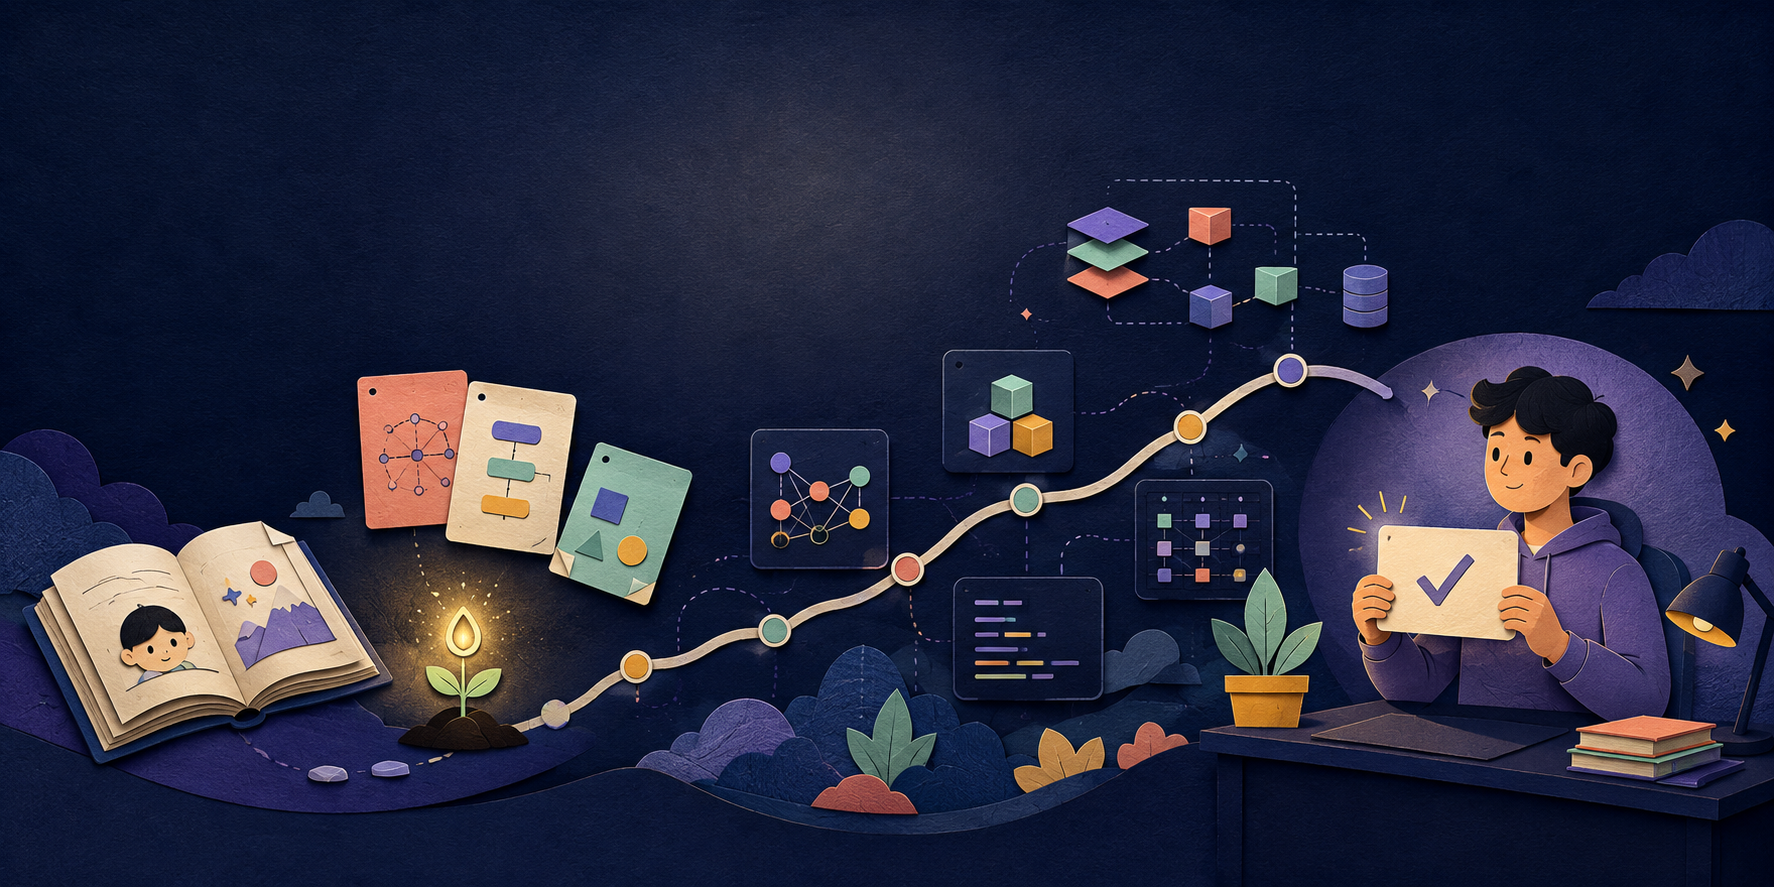
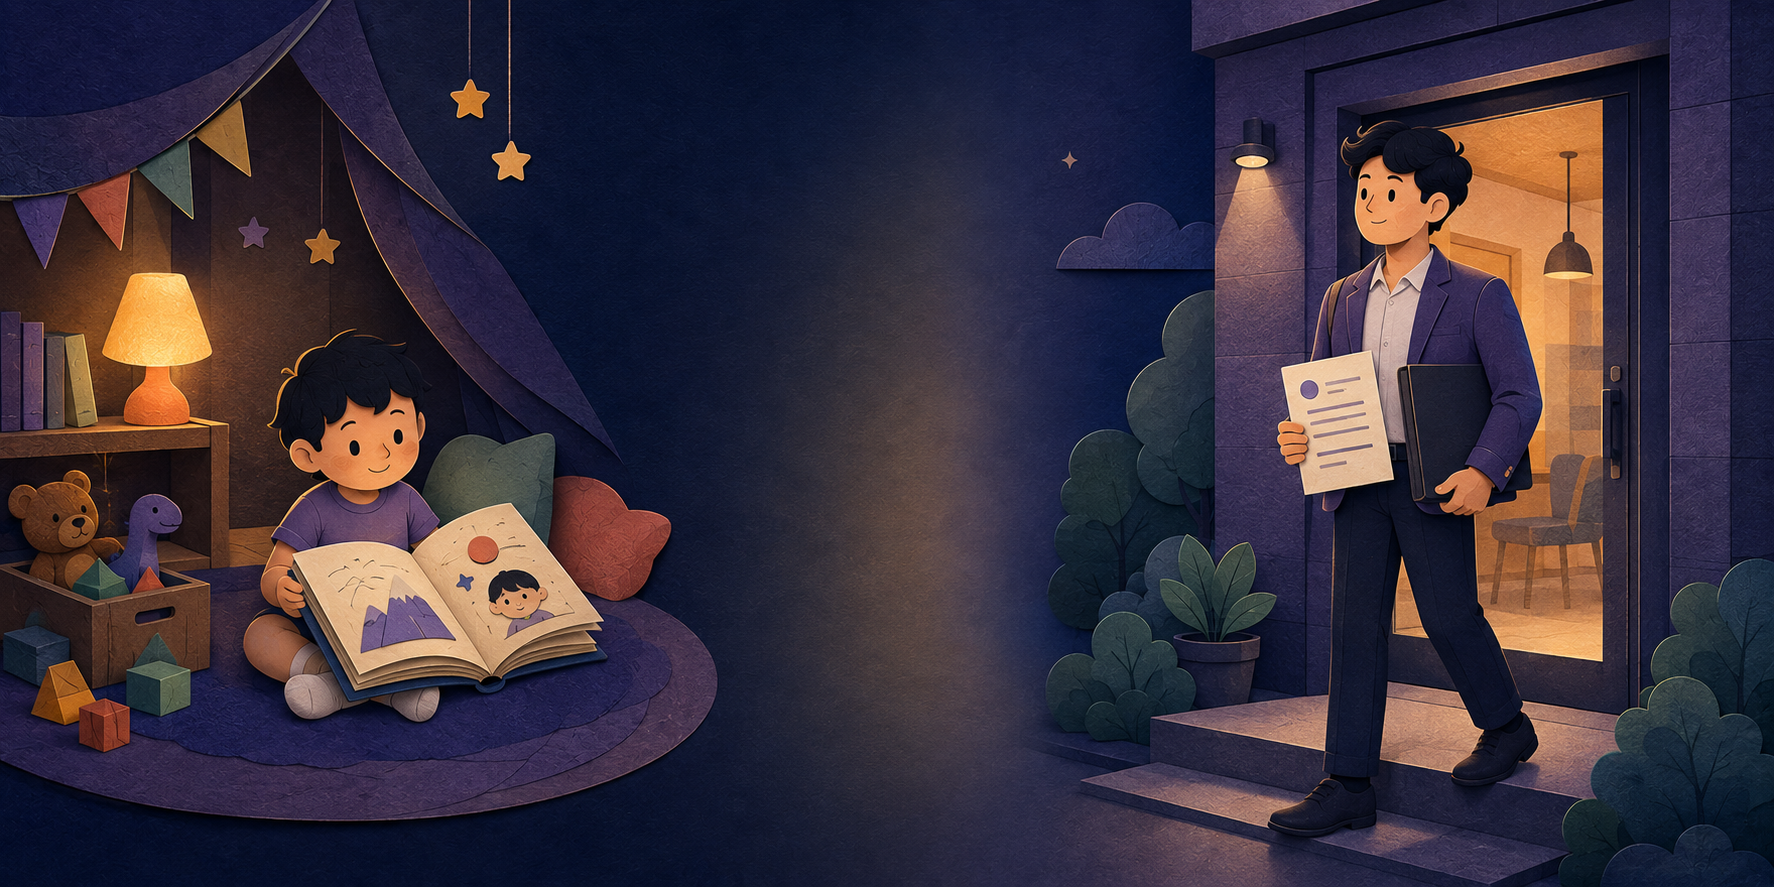
Refocus hero on the learning-to-interview contrast

diff --git a/README.md b/README.md
@@ -16,7 +16,7 @@ Turn any technical topic into a friendly, visual classroom that starts from zero
 </div>
 
 <p align="center">
-  <img src="assets/hero.png" alt="A learning journey from a simple story through technical systems to interview confidence" width="100%">
+  <img src="assets/hero.png" alt="A five-year-old child reading a storybook on the left and the same person entering an interview with a resume on the right" width="100%">
 </p>
 
 ## 🌱 What is it?
